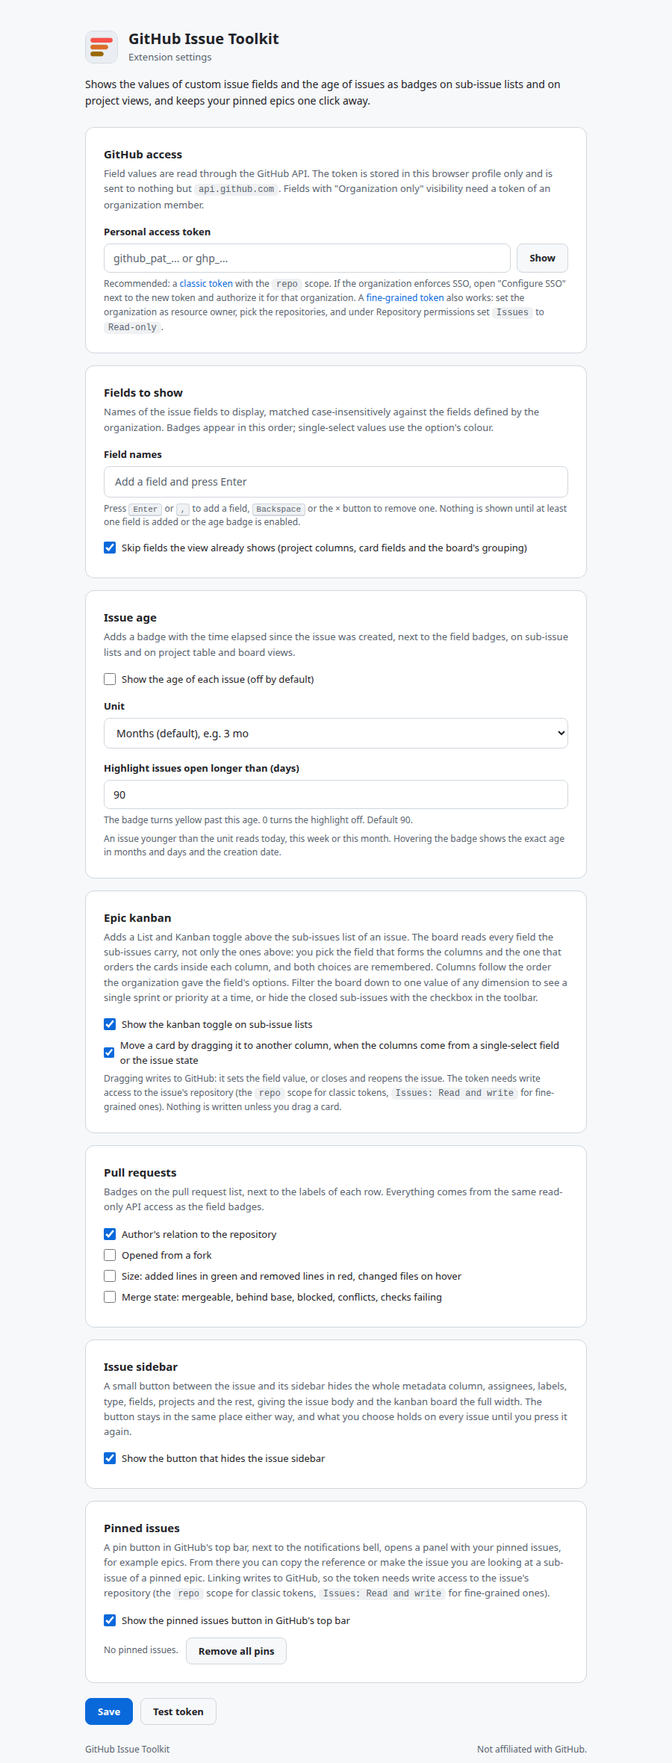
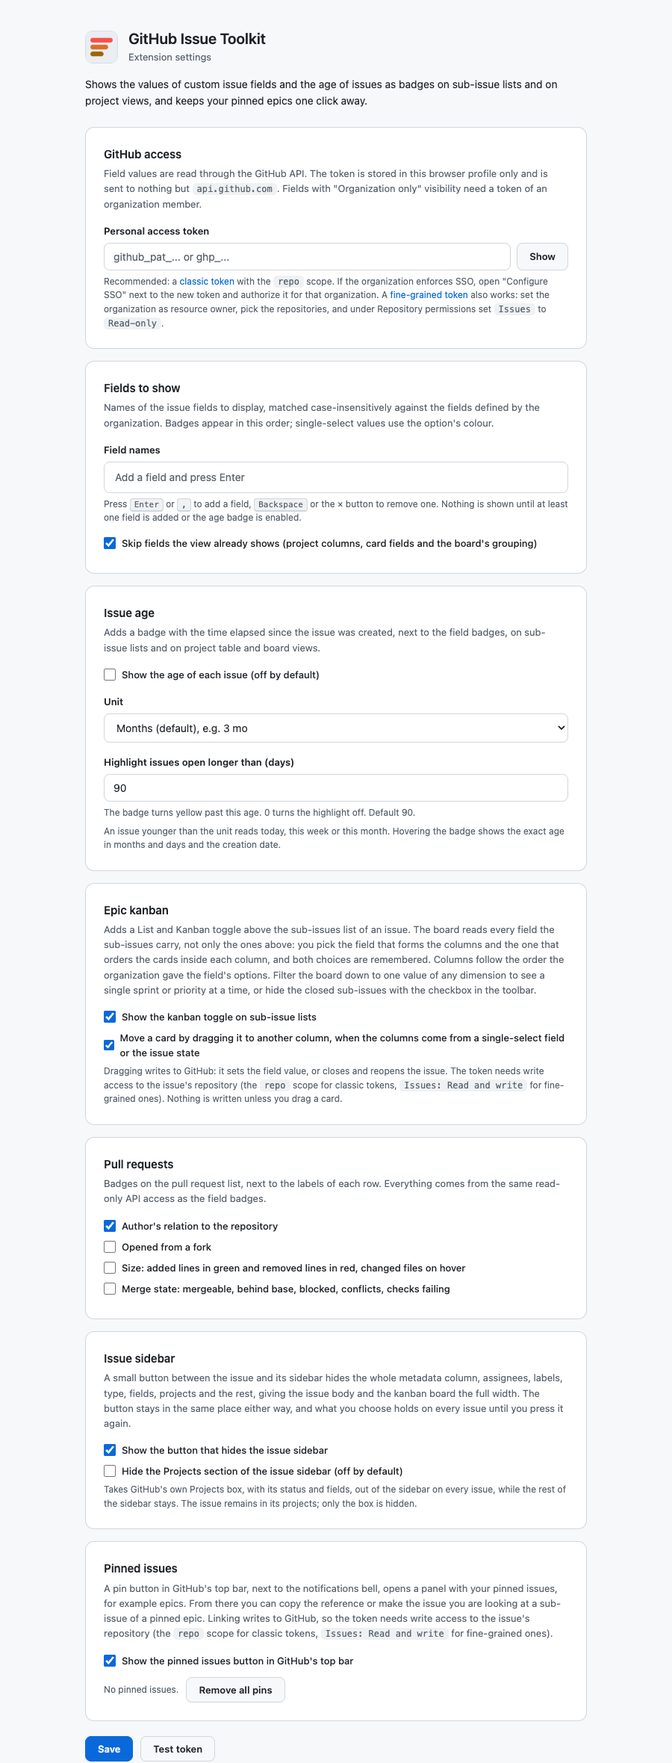
feat(sidebar): hide the projects section of the issue sidebar with a setting
A team that tracks its work in issue fields has no use for the Projects box GitHub shows in every issue sidebar, and the only way to get rid of it was to fold away the whole sidebar. A new setting, off by default, hides just that section on every issue and leaves the rest of the sidebar in place; the issue stays in its projects. The settings page, the README, the site, the privacy note and the changelog describe it.

- content.js: `hideProjectsSection` joins the settings, is read on load and on storage changes, and toggles a `gsf-hide-projects` class on the root element.
- content.css: a rule hides GitHub's `sidebar-projects-section` under that class, so it holds however often GitHub re-renders the sidebar and applies on the first paint.
- options.html, options.js: a checkbox in the Issue sidebar card with a hint, stored as `hideProjectsSection`.
- README.md, docs/index.html, PRIVACY.md: the issue sidebar descriptions, the settings overview and a new FAQ entry mention the setting.
- docs/settings-*.png: re-rendered.
- CHANGELOG.md: Unreleased entry.

diff --git a/docs/index.html b/docs/index.html
@@ -375,7 +375,7 @@
         <div class="card"><h3>Issue age, if you want it</h3><p>An optional gray badge shows how long ago each issue was created, in months, weeks or days, and turns yellow once an issue has been open longer than a threshold you set, 90 days by default. An issue younger than the unit reads today, this week or this month. Off by default, one checkbox in the settings.</p></div>
         <div class="card"><h3>Pull request badges</h3><p>On the pull request list and on Projects views that contain pull requests: whether the author is a first-time contributor, external, a contributor, a collaborator, a member or a bot, plus optional badges for forks, size and merge state.</p></div>
         <div class="card"><h3>Epics as a board</h3><p>An issue with sub-issues gets a List and Kanban toggle. The board groups the sub-issues by any field they carry, orders each column by another, filters everything down to one value of a third, and hides the closed ones on request. Drag a card to another column and the field value, or the issue state, is written back to GitHub.</p></div>
-        <div class="card"><h3>Sidebar out of the way</h3><p>A chevron in the gutter hides an issue's whole metadata column, and the issue body and the board take the width. It holds on every issue until you press it again.</p></div>
+        <div class="card"><h3>Sidebar out of the way</h3><p>A chevron in the gutter hides an issue's whole metadata column, and the issue body and the board take the width. It holds on every issue until you press it again, and a setting can hide just the Projects section instead.</p></div>
         <div class="card"><h3>Pinned epics</h3><p>A pin button in GitHub's top bar keeps your epics one click away: copy their reference, or make the issue you are looking at a sub-issue of one. Optional as well.</p></div>
         <div class="card"><h3>Clickable</h3><p>Each badge links to the repository's issue search filtered by that field value, the same way GitHub's own field badges do.</p></div>
         <div class="card"><h3>Looks native</h3><p>Badges reuse GitHub's own colour tokens, so they match light and dark themes and every colour blindness setting GitHub offers.</p></div>
@@ -571,7 +571,7 @@
   <section id="settings">
     <div class="wrap">
       <h2>Settings</h2>
-      <p class="muted">The token and the fields to show are the two essentials; the age badge, the pull request badges, the epic kanban toggle, the sidebar button and the pinned issues button are optional extras with their own cards. Each field is a chip. Press <kbd>Enter</kbd> or <kbd>,</kbd> to add one, <kbd>Backspace</kbd> or the × button to remove one. Names are matched case-insensitively against the fields your organization defines, and badges appear in the order of the chips. Nothing is shown until at least one field is added or the age badge is enabled.</p>
+      <p class="muted">The token and the fields to show are the two essentials; the age badge, the pull request badges, the epic kanban toggle, the sidebar button, hiding the sidebar's Projects section and the pinned issues button are optional extras with their own cards. Each field is a chip. Press <kbd>Enter</kbd> or <kbd>,</kbd> to add one, <kbd>Backspace</kbd> or the × button to remove one. Names are matched case-insensitively against the fields your organization defines, and badges appear in the order of the chips. Nothing is shown until at least one field is added or the age badge is enabled.</p>
       <figure>
         <img class="only-light" src="settings-light.png" alt="The settings page: token input and the field names chip box">
         <img class="only-dark" src="settings-dark.png" alt="The settings page in dark mode: token input and the field names chip box">
@@ -615,6 +615,7 @@
       <details><summary>Can I hide the done sub-issues?</summary><p>Yes. The Hide closed checkbox in the toolbar takes every closed sub-issue off the board, whatever the columns are made of, and the count in the toolbar says how many are left. The choice is remembered like the others. With the columns made of the issue state, the empty Closed column stays, so a card can still be dragged there to close it.</p></details>
       <details><summary>The kanban board says the epic has more sub-issues than it shows.</summary><p>The board loads up to 500 sub-issues, in pages of 100. Beyond that the count in the toolbar reads "500 of 640" and the rest is left out.</p></details>
       <details><summary>Where does the sidebar go when I hide it?</summary><p>Nowhere: the extension sets <code>display: none</code> on GitHub's metadata column, the same thing GitHub does when its own artifacts panel opens, and its content area grows into the space by itself. The chevron stays in the gutter, so pressing it again brings the sidebar straight back. Nothing is changed on GitHub's side and nothing is sent anywhere.</p></details>
+      <details><summary>Can I hide only the Projects box in the sidebar?</summary><p>Yes. Tick <em>Hide the Projects section of the issue sidebar</em> on the settings page and GitHub's Projects section, with its status and project fields, disappears from every issue while assignees, labels, fields and the rest stay. The issue is not removed from any project, and unticking it brings the section back. Off by default.</p></details>
       <details><summary>Does linking need extra permissions?</summary><p>Yes. Making an issue a sub-issue of a pinned epic writes to GitHub, so the token needs write access to the issue's repository: the <code>repo</code> scope on a classic token, or <code>Issues: Read and write</code> on a fine-grained one. Badges alone work with read-only access.</p></details>
       <details><summary>Sub-issues live in several repositories. Does that work?</summary><p>Yes. Rows are grouped by repository and fetched in one query. Each badge links to the search in its own repository.</p></details>
       <details><summary>A field shows no badge on some rows.</summary><p>Those issues simply have no value for that field. Check the field name on the settings page matches the organization's field name; matching is case-insensitive but the full name must match.</p></details>

diff --git a/options.js b/options.js
@@ -11,6 +11,7 @@ const skipShownInput = document.getElementById("skip-shown");
 const kanbanEnabledInput = document.getElementById("kanban-enabled");
 const kanbanDragInput = document.getElementById("kanban-drag");
 const sidebarToggleInput = document.getElementById("sidebar-toggle");
+const hideProjectsInput = document.getElementById("hide-projects");
 const prInputs = {
   prAssociation: document.getElementById("pr-association"),
   prFork: document.getElementById("pr-fork"),
@@ -101,7 +102,7 @@ if (hasChrome) {
     setStatus(ok ? "Access to github.com granted." : "Access was not granted.", ok);
     refreshAccess();
   });
-  api.storage.local.get(["token", "fields", "ageEnabled", "ageUnit", "ageWarnDays", "pinsEnabled", "skipShownFields", "kanbanEnabled", "kanbanDrag", "sidebarToggle", "prAssociation", "prFork", "prSize", "prMergeState", "pins"]).then((stored) => {
+  api.storage.local.get(["token", "fields", "ageEnabled", "ageUnit", "ageWarnDays", "pinsEnabled", "skipShownFields", "kanbanEnabled", "kanbanDrag", "sidebarToggle", "hideProjectsSection", "prAssociation", "prFork", "prSize", "prMergeState", "pins"]).then((stored) => {
     tokenInput.value = stored.token || "";
     fields = parseFields(stored.fields);
     renderChips();
@@ -111,6 +112,7 @@ if (hasChrome) {
     kanbanEnabledInput.checked = stored.kanbanEnabled !== false;
     kanbanDragInput.checked = stored.kanbanDrag !== false;
     sidebarToggleInput.checked = stored.sidebarToggle !== false;
+    hideProjectsInput.checked = stored.hideProjectsSection === true;
     prInputs.prAssociation.checked = stored.prAssociation !== false;
     prInputs.prFork.checked = stored.prFork === true;
     prInputs.prSize.checked = stored.prSize === true;
@@ -150,7 +152,7 @@ document.getElementById("save").addEventListener("click", async () => {
   const token = tokenInput.value.trim();
   const fieldList = fields.join(", ");
   if (!hasChrome) return setStatus("Preview mode: nothing saved.", false);
-  await api.storage.local.set({ token, fields: fieldList, ageEnabled: ageEnabled.checked, ageUnit: ageUnit.value, ageWarnDays: Math.max(0, parseInt(ageWarn.value, 10) || 0), pinsEnabled: pinsEnabledInput.checked, skipShownFields: skipShownInput.checked, kanbanEnabled: kanbanEnabledInput.checked, kanbanDrag: kanbanDragInput.checked, sidebarToggle: sidebarToggleInput.checked, prAssociation: prInputs.prAssociation.checked, prFork: prInputs.prFork.checked, prSize: prInputs.prSize.checked, prMergeState: prInputs.prMergeState.checked });
+  await api.storage.local.set({ token, fields: fieldList, ageEnabled: ageEnabled.checked, ageUnit: ageUnit.value, ageWarnDays: Math.max(0, parseInt(ageWarn.value, 10) || 0), pinsEnabled: pinsEnabledInput.checked, skipShownFields: skipShownInput.checked, kanbanEnabled: kanbanEnabledInput.checked, kanbanDrag: kanbanDragInput.checked, sidebarToggle: sidebarToggleInput.checked, hideProjectsSection: hideProjectsInput.checked, prAssociation: prInputs.prAssociation.checked, prFork: prInputs.prFork.checked, prSize: prInputs.prSize.checked, prMergeState: prInputs.prMergeState.checked });
   if (!token) setStatus("Saved without a token. Badges need one.", false);
   else if (!fields.length && !ageEnabled.checked) setStatus("Saved without any field. Add a field or enable the age badge to show badges.", false);
   else setStatus("Saved. Reload the GitHub tab if badges do not appear.", true);

diff --git a/content.js b/content.js
@@ -10,7 +10,7 @@
   const pending = new Set();
   let scheduled = null;
   let noticeShown = false;
-  let settings = { ageEnabled: false, ageUnit: "months", ageWarnDays: 90, pinsEnabled: true, skipShownFields: true, prAssociation: true, prFork: false, prSize: false, prMergeState: false, kanbanEnabled: true, kanbanDrag: true, sidebarToggle: true };
+  let settings = { ageEnabled: false, ageUnit: "months", ageWarnDays: 90, pinsEnabled: true, skipShownFields: true, prAssociation: true, prFork: false, prSize: false, prMergeState: false, kanbanEnabled: true, kanbanDrag: true, sidebarToggle: true, hideProjectsSection: false };
   const prCache = new Map(); // "owner/repo!n" -> { at, info }
   const prPending = new Set();
   let pins = [];
@@ -1356,6 +1356,12 @@
     renderRail(sidebar);
   }
 
+  // GitHub's own Projects section of the sidebar is hidden by a class on the root element and a stylesheet rule,
+  // so it stays hidden however often GitHub re-renders the sidebar, and on the first paint rather than after a scan.
+  function syncProjectsSection() {
+    document.documentElement.classList.toggle("gsf-hide-projects", settings.hideProjectsSection);
+  }
+
   // ---------------------------------------------------------------------------
   // Pinned issues panel
   // ---------------------------------------------------------------------------
@@ -1870,6 +1876,10 @@
       if (changes.sidebarCollapsed) sidebarCollapsed = changes.sidebarCollapsed.newValue === true;
       syncSidebar();
     }
+    if (changes.hideProjectsSection) {
+      settings.hideProjectsSection = changes.hideProjectsSection.newValue === true;
+      syncProjectsSection();
+    }
     if (changes.kanbanEnabled || changes.kanbanDrag) {
       if (changes.kanbanEnabled) settings.kanbanEnabled = changes.kanbanEnabled.newValue !== false;
       if (changes.kanbanDrag) settings.kanbanDrag = changes.kanbanDrag.newValue !== false;
@@ -1893,7 +1903,7 @@
     }
   });
 
-  api.storage.local.get(["ageEnabled", "ageUnit", "ageWarnDays", "pinsEnabled", "skipShownFields", "prAssociation", "prFork", "prSize", "prMergeState", "pins", "kanbanEnabled", "kanbanDrag", "kanban", "sidebarToggle", "sidebarCollapsed"]).then((stored) => {
+  api.storage.local.get(["ageEnabled", "ageUnit", "ageWarnDays", "pinsEnabled", "skipShownFields", "prAssociation", "prFork", "prSize", "prMergeState", "pins", "kanbanEnabled", "kanbanDrag", "kanban", "sidebarToggle", "sidebarCollapsed", "hideProjectsSection"]).then((stored) => {
     settings.ageWarnDays = Number.isFinite(Number(stored.ageWarnDays)) && stored.ageWarnDays !== undefined ? Number(stored.ageWarnDays) : 90;
     settings.skipShownFields = stored.skipShownFields !== false;
     settings.prAssociation = stored.prAssociation !== false;
@@ -1907,6 +1917,8 @@
     settings.kanbanDrag = stored.kanbanDrag !== false;
     settings.sidebarToggle = stored.sidebarToggle !== false;
     sidebarCollapsed = stored.sidebarCollapsed === true;
+    settings.hideProjectsSection = stored.hideProjectsSection === true;
+    syncProjectsSection();
     kanban = { ...kanban, ...(stored.kanban || {}) };
     pins = Array.isArray(stored.pins) ? stored.pins : [];
     lastHref = null;

diff --git a/options.html b/options.html
@@ -214,6 +214,8 @@
       <h2>Issue sidebar</h2>
       <p class="desc">A small button between the issue and its sidebar hides the whole metadata column, assignees, labels, type, fields, projects and the rest, giving the issue body and the kanban board the full width. The button stays in the same place either way, and what you choose holds on every issue until you press it again.</p>
       <label class="check"><input id="sidebar-toggle" type="checkbox"> Show the button that hides the issue sidebar</label>
+      <label class="check" style="margin-top:8px"><input id="hide-projects" type="checkbox"> Hide the Projects section of the issue sidebar (off by default)</label>
+      <p class="hint">Takes GitHub's own Projects box, with its status and fields, out of the sidebar on every issue, while the rest of the sidebar stays. The issue remains in its projects; only the box is hidden.</p>
     </section>
 
     <section class="card">

diff --git a/content.css b/content.css
@@ -512,6 +512,7 @@
 
 /* Issue sidebar: the rail holding the collapse button, and the hidden metadata column */
 .gsf-sidebar-hidden { display: none !important; }
+.gsf-hide-projects [data-testid="sidebar-projects-section"] { display: none !important; }
 .gsf-sidebar-rail {
   flex: 0 0 auto;
   align-self: stretch;

diff --git a/README.md b/README.md
@@ -91,7 +91,7 @@ Illustrations of an invented repository, rendered from the documentation site wi
 - An optional **age** badge shows how old each issue is, in months (`3 mo`), weeks or days, reads `today`, `this week` or `this month` for an issue younger than the unit, and turns yellow once an issue has been open longer than a threshold you choose (90 days by default). Off by default.
 - **Pull request badges** on the pull request list and on Projects views that contain pull requests: the author's relation to the repository (first-time contributor, external, contributor, collaborator, member, bot) on by default, plus optional badges for forks, size (added lines in green, removed in red) and merge state.
 - An **epic kanban**: above the sub-issues list of an issue, a List and Kanban toggle draws those sub-issues as a board. The columns come from any field the sub-issues carry (or their state, type or assignee), the cards inside a column are ordered by another, a filter keeps one value of a third, and a checkbox hides the closed sub-issues; every choice is remembered. Dragging a card to another column writes the field value back to GitHub, or closes and reopens the issue. Both the board and the dragging can be switched off in the settings.
-- A button that **hides the issue sidebar**: one press folds away the whole metadata column, assignees, labels, type, fields, projects and the rest, and gives the issue body and the board that width. The button sits in the gutter between the two, so it does not move when the sidebar goes, and what you chose holds on every issue. Can be switched off in the settings.
+- A button that **hides the issue sidebar**: one press folds away the whole metadata column, assignees, labels, type, fields, projects and the rest, and gives the issue body and the board that width. The button sits in the gutter between the two, so it does not move when the sidebar goes, and what you chose holds on every issue. Can be switched off in the settings. A separate, optional setting hides only GitHub's **Projects** section of the sidebar and leaves the rest in place.
 - A **Pinned issues** button in GitHub's top bar: pin epics, copy their reference, or make the issue you are looking at a sub-issue of a pinned epic with one click. Can be switched off in the settings.
 - Any field type works: single-select, multi-select, text, number, date.
 - Choose which fields to show and in what order; nothing is shown until you pick at least one field or enable the age badge.
@@ -134,7 +134,7 @@ Minimum version: Firefox 140, required by the `data_collection_permissions` mani
    - **Fine-grained**: https://github.com/settings/personal-access-tokens/new. Set the organization as resource owner, pick the repositories, and under Repository permissions set `Issues` to `Read-only` (or `Read and write` if you want to link issues to pinned epics from the panel, or drag cards on the kanban board).
 2. Paste the token on the settings page, click **Test token**, then **Save**.
 3. Add the **Field names** to show: each field is a chip, press Enter or comma to add one, Backspace or the × button to remove one. Names are matched case-insensitively. No badges appear until at least one field is added or the age badge is enabled.
-4. Optionally enable the **Issue age** badge (off by default), pick its unit and the age after which it turns yellow (90 days by default), choose which **Pull request** badges you want (author relation on by default; fork, size and merge state off), and decide whether you want the **Epic kanban** toggle, dragging cards on it, the button that hides the **Issue sidebar**, and the **Pinned issues** button in GitHub's top bar (all on by default).
+4. Optionally enable the **Issue age** badge (off by default), pick its unit and the age after which it turns yellow (90 days by default), choose which **Pull request** badges you want (author relation on by default; fork, size and merge state off), and decide whether you want the **Epic kanban** toggle, dragging cards on it, the button that hides the **Issue sidebar**, and the **Pinned issues** button in GitHub's top bar (all on by default), and whether to hide the sidebar's **Projects** section (off by default).
 5. Open any issue with sub-issues, or a project view such as `https://github.com/orgs/<org>/projects/<n>/views/<v>`.
 
 ### Epic kanban
@@ -157,6 +157,7 @@ A small chevron in the gutter between an issue and its sidebar hides the metadat
 - The choice holds on every issue and in every tab until you press the button again.
 - On a narrow window, where GitHub already stacks the sidebar under the issue instead of beside it, the button is not shown; there is nothing to gain there.
 - The whole thing can be switched off on the settings page.
+- Separately, **Hide the Projects section** takes GitHub's own Projects box, with its status and project fields, out of the sidebar on every issue, for a team that tracks work in issue fields and does not need it. The issue stays in its projects; only the box is hidden. Off by default.
 
 ### Pinned issues
 
@@ -178,7 +179,7 @@ The token is stored with `chrome.storage.local` on your device and is only ever 
 - `background.js` groups the issues by repository and runs one GraphQL query per batch of 60 issues using `Issue.issueFieldValues` and `createdAt`, then returns only the configured fields. Without a token or without anything to show it answers with a hint that `content.js` shows above the sub-issues list or in the pins panel. For pull requests it reads `authorAssociation`, whether the head is a fork, additions, deletions, changed files and `mergeStateStatus`. It also resolves pinned issues (title, type) and runs the `addSubIssue` mutation. It runs as a service worker on Chromium and as an event page on Firefox.
 - `content.js` renders a badge per value after the issue type badge (or after the issue number in project tables, under the title on board cards), plus the age badge, styled by `content.css` with GitHub's colour tokens. It also renders the pinned issues panel; the current issue is taken from the page URL or from the `issue=owner|repo|number` parameter GitHub adds when a project side panel is open.
 - The kanban has its own path: `background.js` reads the open issue's `subIssues` connection, paginated by 100 up to 500 sub-issues, returning every field value each one carries plus its state, type, assignees and creation date. `content.js` groups, orders and filters those in the page and draws the board in place of the list, so changing any of the three redraws without another request. A dropped card is the exception: it writes through `createIssueFieldValue`, `deleteIssueFieldValue`, `closeIssue` or `reopenIssue`, updating the board first and reverting it if the write fails. The result is cached per epic like everything else.
-- The sidebar button is a small rail `content.js` inserts between GitHub's content area and its metadata column, both flex items of the same row. Collapsing sets `display: none` on the metadata column, which is what GitHub itself does when its artifacts panel opens, and its content area grows into the space on its own.
+- The sidebar button is a small rail `content.js` inserts between GitHub's content area and its metadata column, both flex items of the same row. Collapsing sets `display: none` on the metadata column, which is what GitHub itself does when its artifacts panel opens, and its content area grows into the space on its own. Hiding the Projects section is a class on the root element and a `content.css` rule on GitHub's `sidebar-projects-section`, so it holds however often GitHub re-renders the sidebar.
 - `options.html` / `options.js` provide the settings page, including the one-time site-access prompt Firefox needs.
 - All scripts start with `const api = browser ?? chrome`, so the same code runs on both engines.
 

diff --git a/PRIVACY.md b/PRIVACY.md
@@ -6,7 +6,7 @@ GitHub Issue Toolkit is a browser extension that displays the values of GitHub c
 
 - **GitHub personal access token.** You enter it on the extension's settings page. It is stored with `chrome.storage.local`, on your device only, and is sent exclusively to `https://api.github.com/graphql` in the `Authorization` header. It is never sent anywhere else. All requests read data (issue field values, creation dates, the sub-issues of an issue you view as a board, and the title and type of issues you pin), with two exceptions: when you click **Link** in the pinned issues panel, the extension makes the current issue a sub-issue of the pinned one (`addSubIssue`), and when you drag a card to another column on the kanban board, it writes that column's value to the issue (`createIssueFieldValue`, `deleteIssueFieldValue`) or closes and reopens the issue (`closeIssue`, `reopenIssue`). Nothing is written without that click or that drag.
 - **Issue and pull request references.** For the issues and pull requests visible on the page you are viewing (sub-issue lists, project tables and boards, pull request lists), the extension sends the repository owner, repository name and number to the GitHub API to fetch the field values, creation dates, and for pull requests the author's relation to the repository, fork origin, size and merge state. With the kanban board open it sends the owner, name and number of the issue you are looking at to read its sub-issues: their numbers, titles, states, types, assignees, creation dates and field values. Results are kept in memory for a few minutes and are discarded when the tab closes.
-- **Settings and pins.** Your list of field names, the age badge, pull request badge, kanban, sidebar and pinned issues preferences (including whether the board or the list is shown, the field the board groups by, the one it orders by, the filter, whether closed sub-issues are hidden, and whether the issue sidebar is folded away), and the issues you pin (repository, number, title, type) are stored with `chrome.storage.local` on your device.
+- **Settings and pins.** Your list of field names, the age badge, pull request badge, kanban, sidebar and pinned issues preferences (including whether the board or the list is shown, the field the board groups by, the one it orders by, the filter, whether closed sub-issues are hidden, whether the issue sidebar is folded away, and whether its Projects section is hidden), and the issues you pin (repository, number, title, type) are stored with `chrome.storage.local` on your device.
 
 ## Data the extension does not handle
 
@@ -18,7 +18,7 @@ GitHub Issue Toolkit is a browser extension that displays the values of GitHub c
 
 - `storage` - saves the token and the field list locally.
 - Host permission `https://api.github.com/*` - reads issue field values, creation dates, the sub-issues behind the kanban board and pinned issue details through the GitHub GraphQL API, and performs the sub-issue link you request from the pinned issues panel and the card move you perform by dragging.
-- Content script on `https://github.com/*` - finds sub-issue rows, project table rows, board cards and pull request rows, renders the badges and the kanban board, adds the button that hides the issue sidebar, and adds the pinned issues button to GitHub's header.
+- Content script on `https://github.com/*` - finds sub-issue rows, project table rows, board cards and pull request rows, renders the badges and the kanban board, adds the button that hides the issue sidebar, optionally hides the sidebar's Projects section, and adds the pinned issues button to GitHub's header.
 
 On Firefox, access to `github.com` and `api.github.com` is granted by you after installation (the settings page asks for it once); the extension does nothing until then.
 

diff --git a/CHANGELOG.md b/CHANGELOG.md
@@ -4,7 +4,9 @@ All notable changes to this project are documented here. The format follows [Kee
 
 ## [Unreleased]
 
-Nothing yet.
+### Added
+
+- An optional setting, off by default, hides GitHub's **Projects** section of the issue sidebar on every issue, leaving the rest of the sidebar in place. The issue stays in its projects; only the box is hidden.
 
 ## [2.5.0] - 2026-09-24
 
